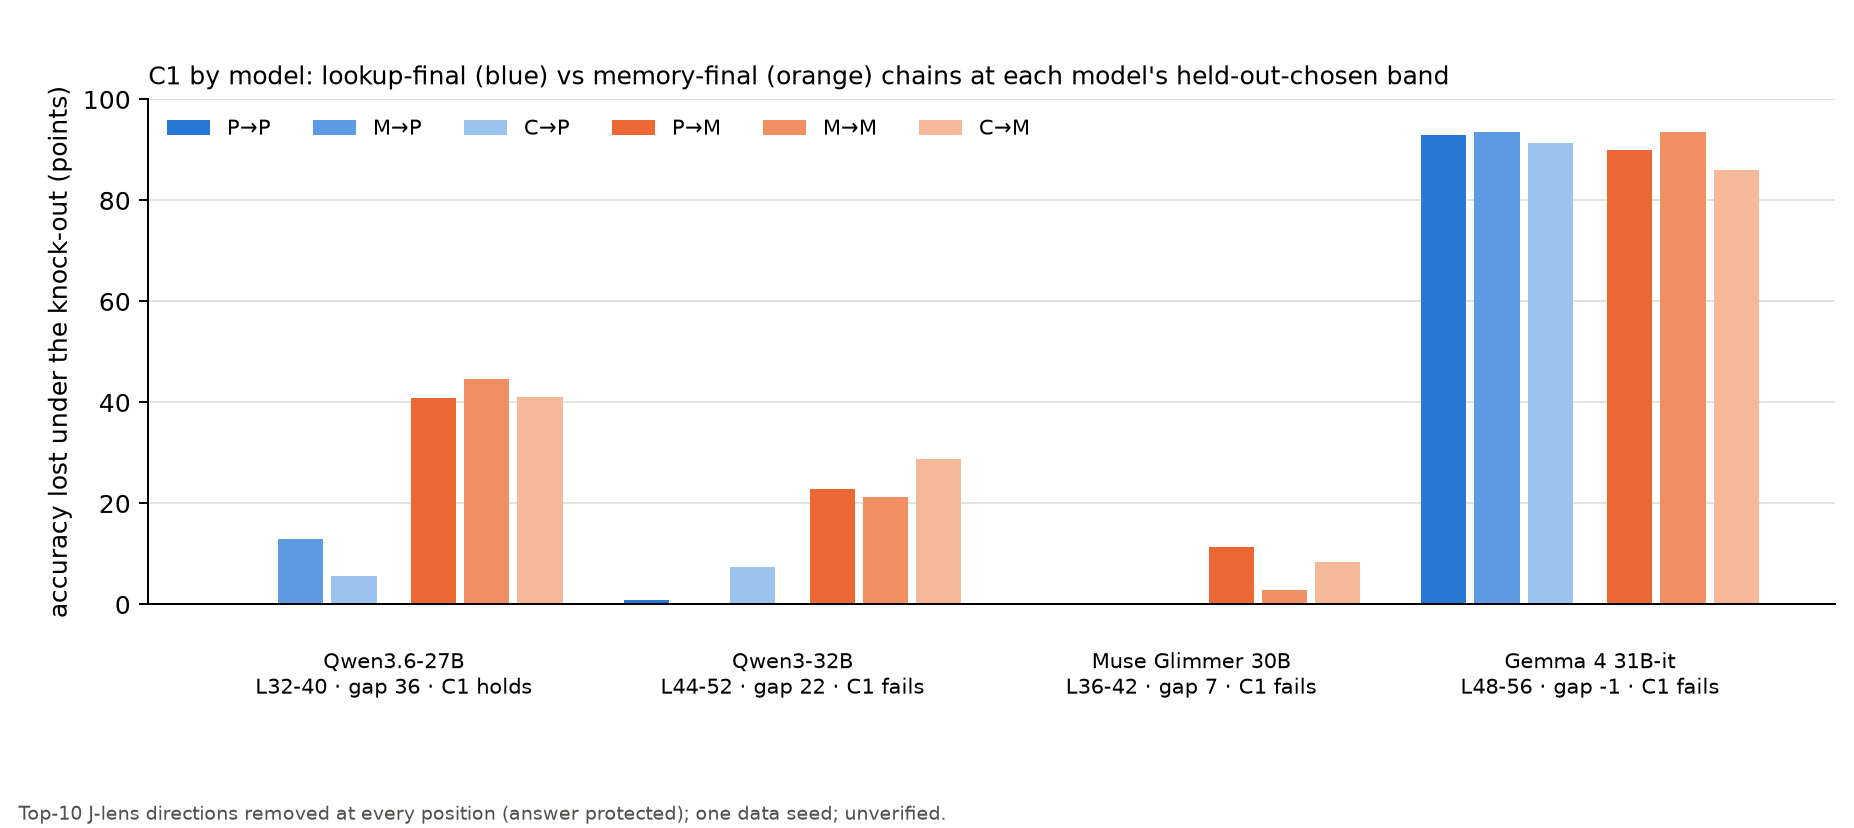
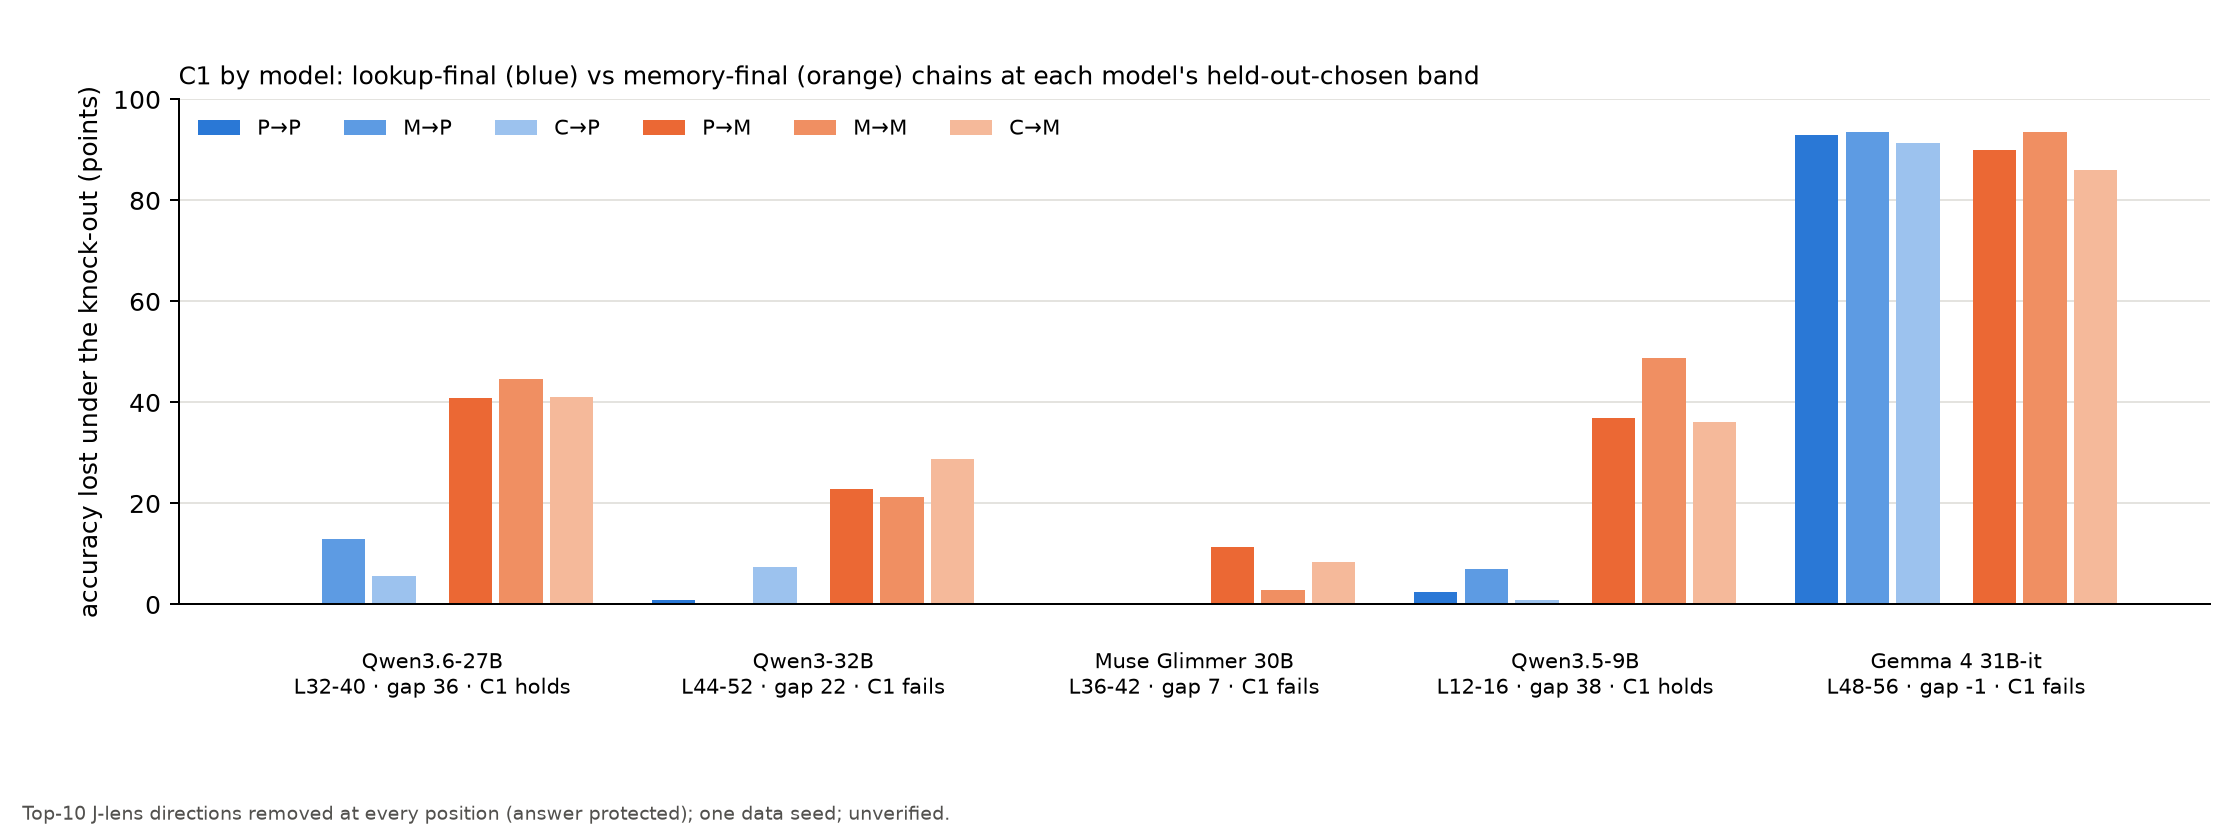
hygiene: commit the 2026-10-22 Muse J-lens queue insertion (muse30j_full2_ko_v1) and the refreshed cross-model table; three competence reports regenerated against the wrong set reverted

diff --git a/results/cross_model/summary.md b/results/cross_model/summary.md
@@ -5,9 +5,9 @@
 | model | lens | band | loss P→P / M→P / C→P | loss P→M / M→M / C→M | gap (≥30) | controls | C1-graded | no-guess gap | unembedding gap | keep-own restored (kill ≥75%) | extra control seeds (min acc) | plain-text +nats top-10 / random |
 |---|---|---|---|---|---|---|---|---|---|---|---|---|
 | Qwen3.6-27B | published J++ | L32-40 | 0 / 13 / 6 | 41 / 45 / 41 | 36 | ok | **HOLDS** | 34 | 0 | 20% | 96, 97 | +0.30 / +0.07 |
-| Qwen3-32B | our J++ (32 prompts) | L44-52 | 1 / 0 / 7 | 23 / 21 / 29 | 22 | NO | **FAILS** | 20 | 4 | -10% | 85, 82 | - |
+| Qwen3-32B | our J++ (32 prompts) | L44-52 | 1 / 0 / 7 | 23 / 21 / 29 | 22 | NO | **FAILS** | 20 | 4 | -10% | 85, 86 | +0.13 / +0.02 |
 | Muse Glimmer 30B | our J++ (32 prompts) | L36-42 | 0 / 0 / 0 | 11 / 3 / 8 | 7 | ok | **FAILS** | 7 | 7 | - | - | +0.27 / +0.03 |
-| Qwen3.5-9B | published J++ | - | - | - | - | - | - | - | - | - | - | - |
+| Qwen3.5-9B | published J++ | L12-16 | 3 / 7 / 1 | 37 / 49 / 36 | 38 | ok | **HOLDS** | 40 | - | - | - | - |
 | Gemma 4 31B-it | our J++ (64 prompts) | L48-56 | 93 / 93 / 91 | 90 / 93 / 86 | -1 | ok | **n/a (untestable)** | -1 | 0 | - | - | +9.25 / +0.01 UNTESTABLE |
 
 ## C2: the lens writes bridges (two-step steering at the question / final positions)
@@ -15,6 +15,10 @@
 | model | band | C2-graded (M→M best vs M→P best) | C2-relative | C2' (narrow): P→P vs P→M; C→P vs C→M (cross-validated writes) |
 |---|---|---|---|---|
 | Qwen3.6-27B | current | FAILS (40 vs 36) | inconclusive: sites carry the bridge only partly | **HOLDS**: P 1→18; C 0→17 |
+| Qwen3.6-27B | aligned | FAILS (19 vs 0) | FAILS | **HOLDS**: P 0→11; C 0→18 |
 | Qwen3-32B | current | FAILS (10 vs 12) | inconclusive: sites carry the bridge only partly | **FAILS**: P 5→16; C 0→2 |
+| Qwen3-32B | aligned | HOLDS (75 vs 8) | HOLDS | **HOLDS**: P 0→23; C 0→29 |
+| Muse Glimmer 30B | current | HOLDS (56 vs 6) | HOLDS | **FAILS**: P 11→14; C 3→17 |
+| Muse Glimmer 30B | aligned | HOLDS (50 vs 10) | HOLDS | **FAILS**: P 13→8; C 5→17 |
 
 The 27B's C2' is the data the rule was read off (not evidence); the other models are the test.
